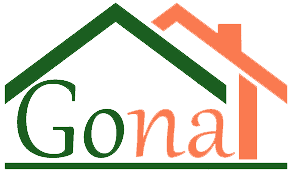
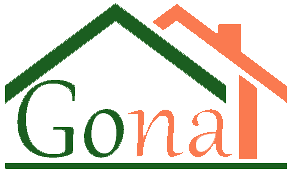
save

diff --git a/css/style.css b/css/style.css
@@ -236,6 +236,7 @@ body[data-aos-easing="new-easing"] [data-aos],
     transform: translateY(0);
     transition: all 700ms ease-in-out;
     transition: all 10000ms ease-out;
+    text-transform: uppercase;
 }
 
 .preloader.remove {
@@ -632,7 +633,13 @@ section {
 
 .logos img {
     height: 5rem;
-    filter: sepia(100%) hue-rotate(190deg) saturate(500%);
+    /* filter: sepia(100%) hue-rotate(190deg) saturate(500%); */
+}
+
+.logos img:last-child {
+    height: 7rem;
+    margin-top: -1rem;
+    /* filter: sepia(100%) hue-rotate(190deg) saturate(500%); */
 }
 
 .logos img:hover {

diff --git a/index.html b/index.html
@@ -131,7 +131,7 @@
                 <div class="logos">
 
                     <img src="images/agrobloc.png" alt="Business Insider logo" />
-                    <img src="images/gida gona.png" alt="The New York Times logo" />
+                    <img src="images/gidagona.png" alt="The New York Times logo" />
                     <img src="images/Eazymart.png" alt="USA Today logo" />
                     <img src="images/donnie.png" alt="USA Today logo" />
                     <img src="images/stiched-to-fit.png" alt="USA Today logo" />
